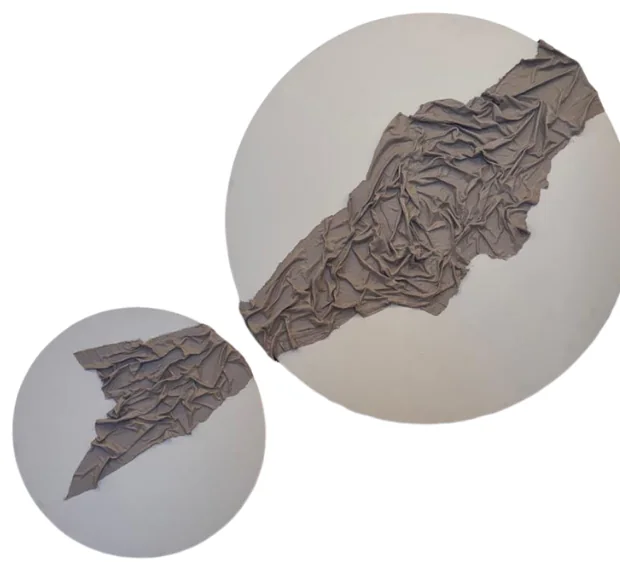
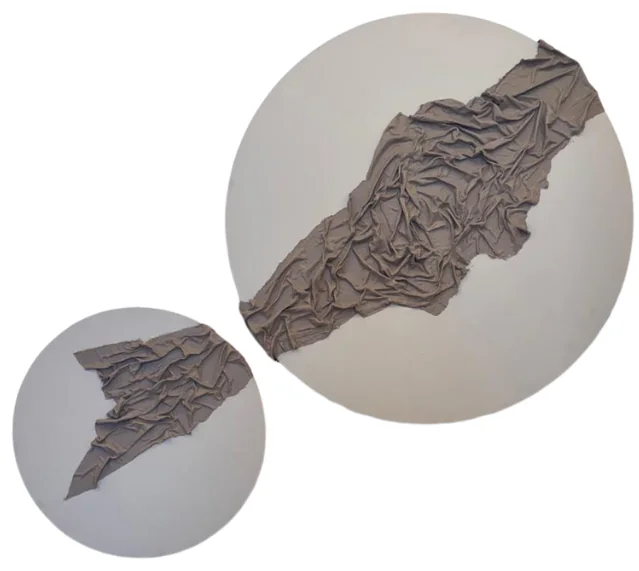
Add files via upload

diff --git a/preview/index.html b/preview/index.html
@@ -35,8 +35,8 @@
   /* ---------- INTRO ---------- */
   .intro{max-width:1180px; margin:0 auto; display:grid; grid-template-columns:1.1fr 1fr; align-items:center; gap:40px; padding:24px 24px 0}
   .intro .torre{width:100%; max-width:660px; height:auto}
-  .intro .texto{font-size:clamp(17px,1.5vw,21px); line-height:1.65; color:var(--ink); text-align:left; hyphens:manual; max-width:470px}
-  .intro .texto p{text-wrap:pretty}
+  .intro .texto{font-size:clamp(17px,1.5vw,21px); line-height:1.65; color:var(--ink); text-align:center; hyphens:manual; max-width:470px}
+  .intro .texto p{text-wrap:balance}
   .intro .texto p+p{margin-top:18px}
   .intro .texto strong{font-weight:500}
 
@@ -78,7 +78,7 @@
 
   footer{text-align:center; padding:0 24px 56px}
   footer .logo{width:120px; margin:0 auto; opacity:.9}
-  footer .socios{width:min(560px,100%); margin:64px auto 0; padding-top:40px; border-top:1px solid #e6ddd3}
+  footer .socios{width:min(340px,80%); margin:0 auto}
 
   .torre-hero,.desliza{display:none}
 
@@ -101,10 +101,11 @@
     .desliza svg{animation:rebote 1.8s ease-in-out infinite}
     .intro{padding-top:56px}
     .intro .torre{display:none}
+    .intro .texto p{text-wrap:balance}
     .hero .waves{width:150px; right:0; top:0; opacity:.55}
     .logo{margin-bottom:36px}
     .intro{grid-template-columns:1fr; gap:28px; padding:16px 16px 0}
-    .intro .texto{order:-1; margin:0 auto; max-width:358px; font-size:15.5px; line-height:1.7; text-align:left; hyphens:manual}
+    .intro .texto{order:-1; margin:0 auto; max-width:358px; font-size:clamp(14.5px,4vw,16px); line-height:1.7; text-align:center; hyphens:manual}
     .intro .torre{margin:0 auto; max-width:340px}
     .artistas{padding:80px 16px 72px; overflow:hidden}
     .artistas h2{margin-bottom:44px}
@@ -121,7 +122,7 @@
     a.nombre .ir{width:14px; height:14px; margin-top:4px}
     .artista.der .nombre{margin-top:30%}
     .artista.izq .nombre{margin-top:30%}
-    footer .socios{margin-top:44px; padding-top:28px; width:100%}
+    footer .socios{width:min(260px,72%)}
   }
 </style>
 </head>
@@ -140,8 +141,8 @@
 <section class="intro" id="intro">
   <img class="torre reveal" src="img/torre.webp" alt="Torre Hessen" width="1400" height="1048">
   <div class="texto reveal">
-    <p>En <strong>HESSEN</strong>, el arte encuentra un lugar para&nbsp;trascender.</p>
-    <p>Inspirada en la naturaleza y los paisajes que dan origen a su nombre, The Hessen Collection integra arte y arquitectura para dar identidad a cada espacio. Una colección que reinterpreta las formas y texturas de la naturaleza, donde las obras aportan significado y las personas, con sus historias y su forma de habitar, le dan vida&nbsp;al&nbsp;proyecto.</p>
+    <p>En <strong>HESSEN</strong>, el arte encuentra un&nbsp;lugar para&nbsp;trascender.</p>
+    <p>Inspirada en la naturaleza y los paisajes que dan origen a su nombre, The Hessen Collection integra arte y arquitectura para dar identidad a cada espacio. Una colección que reinterpreta las formas y texturas de la naturaleza, donde las obras aportan significado y las personas, con sus historias y su forma de habitar, le&nbsp;dan vida&nbsp;al&nbsp;proyecto.</p>
   </div>
 </section>
 
@@ -168,7 +169,6 @@
 </section>
 
 <footer>
-  <img class="logo" src="img/logo.webp" alt="Hessen" width="300" height="190" loading="lazy">
   <img class="socios" src="img/socios.webp" alt="Un proyecto de IMPULSA y UNMÜSSIG" width="1200" height="302" loading="lazy">
 </footer>
 
